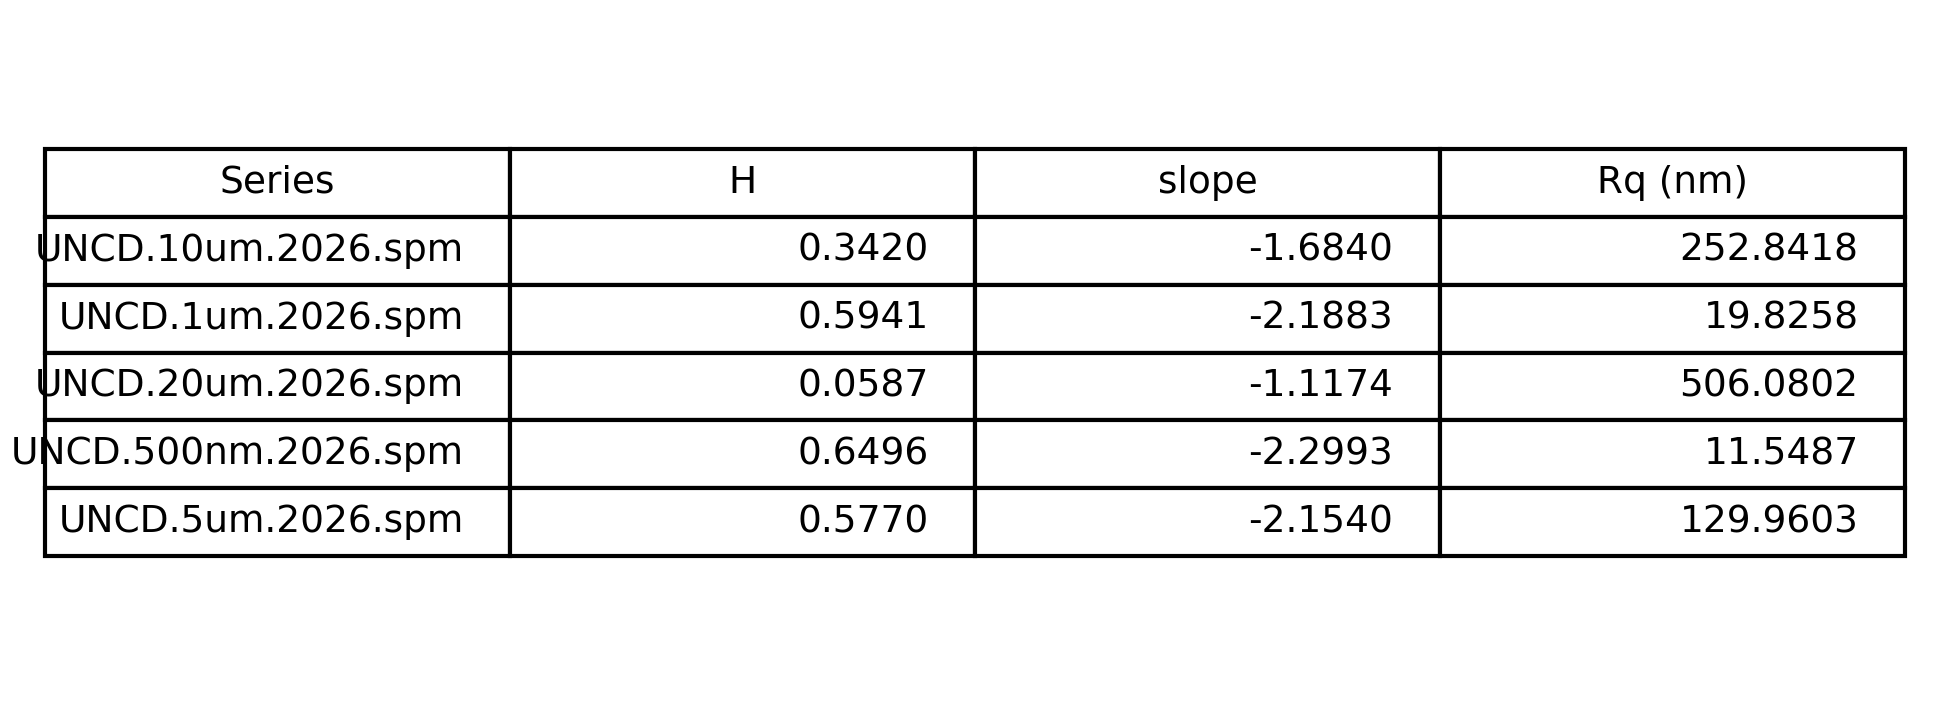
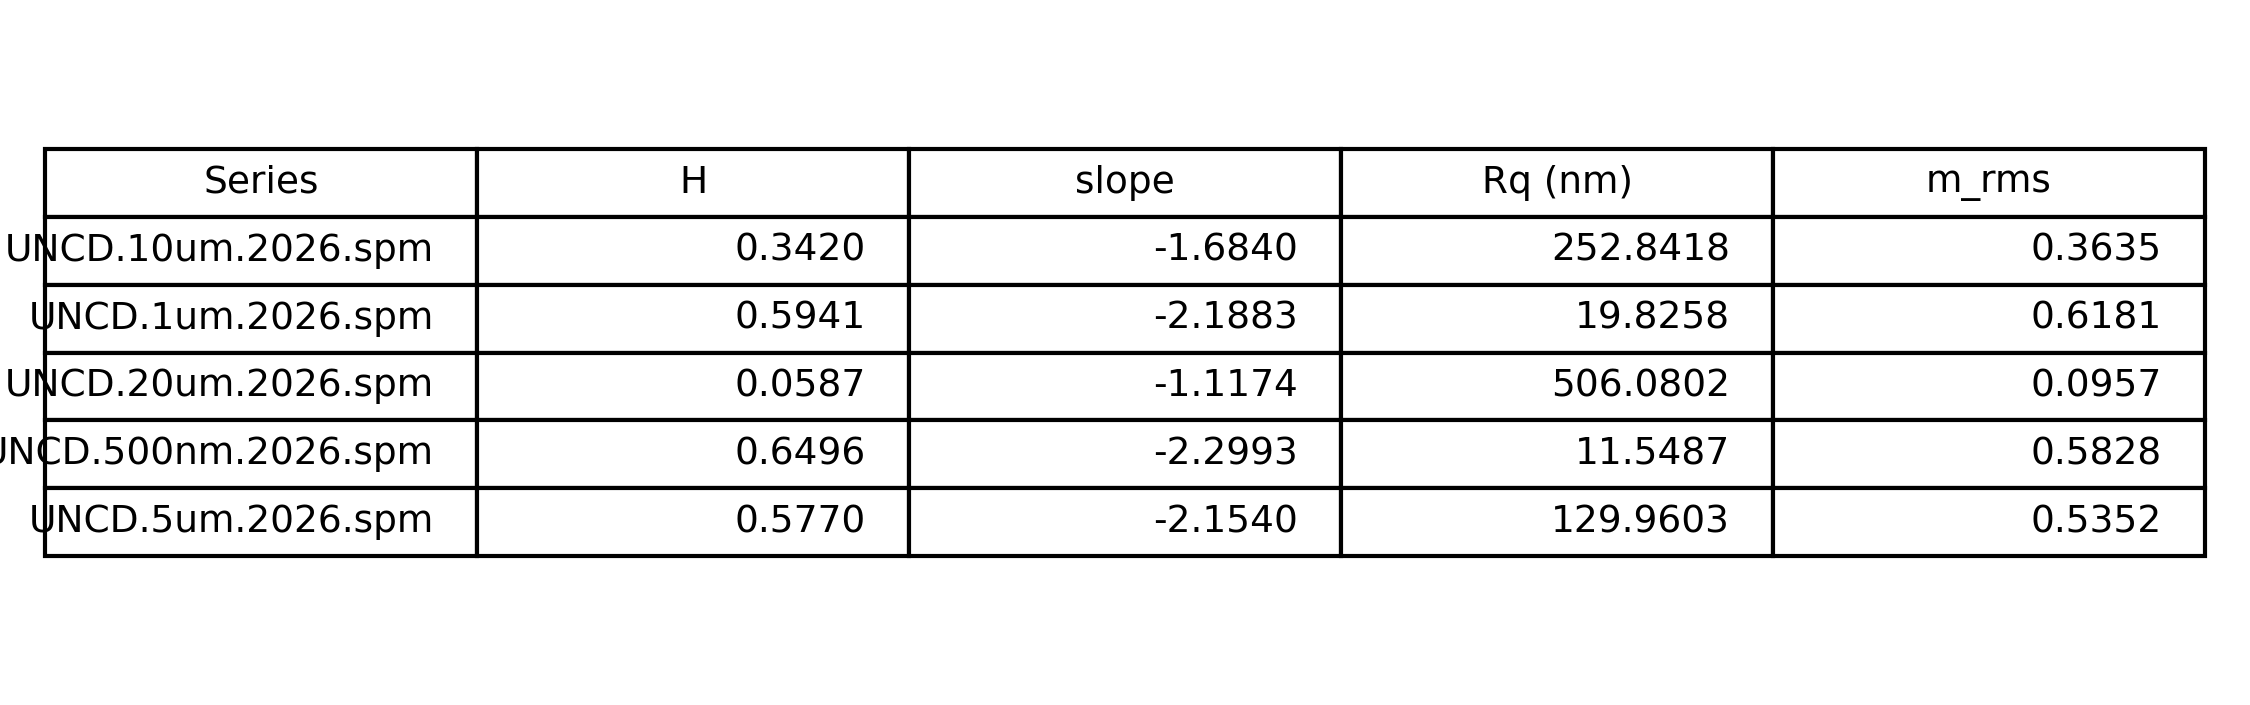
Add RMS slope and stats export for PSD analysis.

diff --git a/hurst_psd_analysis.py b/hurst_psd_analysis.py
@@ -133,6 +133,44 @@ def compute_rq_from_psd(
     return float(math.sqrt(rq_sq))
 
 
+def compute_rms_slope_from_psd(
+    q: np.ndarray,
+    psd: np.ndarray,
+    q_max: float = RQ_INTEGRATION_Q_MAX,
+) -> float:
+    """
+    Compute RMS slope m_rms from a 1D PSD using
+
+        m_rms^2 = (1 / pi) * ∫ q^2 C(q) dq   over  0 <= q <= q_max
+
+    and return m_rms = sqrt(m_rms^2).
+
+    Parameters
+    ----------
+    q : array-like
+        Wavevector values in nm^-1.
+    psd : array-like
+        PSD values in nm^3.
+    q_max : float
+        Upper integration limit in nm^-1.
+    """
+    q = np.asarray(q, dtype=float)
+    psd = np.asarray(psd, dtype=float)
+
+    mask = np.isfinite(q) & np.isfinite(psd) & (psd >= 0.0) & (q <= q_max)
+    q_sel = q[mask]
+    psd_sel = psd[mask]
+
+    if q_sel.size < 2:
+        return float("nan")
+
+    integrand = (q_sel ** 2) * psd_sel
+    integral = np.trapz(integrand, q_sel)
+
+    m_sq = abs((1.0 / math.pi) * integral)
+    return float(math.sqrt(m_sq))
+
+
 # ==== PLOTTING =============================================================
 
 def plot_psd_with_fit(
@@ -287,10 +325,11 @@ def plot_psd_with_fit_multi(
     ax.set_title(csv_path.name)
     ax.legend(loc="upper right", fontsize=8)
 
-    # Build table of H, slopes, and Rq (for separate table figure)
+    # Build table of H, slopes, Rq, and m_rms (for separate table figure)
     table_rows = []
     H_values = []
     Rq_values = []
+    m_values = []
     for g in groups:
         table_rows.append(
             [
@@ -298,26 +337,23 @@ def plot_psd_with_fit_multi(
                 f"{g['H']:.4f}",
                 f"{g['slope']:.4f}",
                 f"{g['Rq']:.4f}",
+                f"{g['m_rms']:.4f}",
             ]
         )
         H_values.append(float(g["H"]))
         Rq_values.append(float(g["Rq"]))
+        m_values.append(float(g["m_rms"]))
 
-    if H_values:
-        H_mean = float(np.mean(H_values))
-    else:
-        H_mean = float("nan")
+    H_mean = float(np.mean(H_values)) if H_values else float("nan")
+    Rq_mean = float(np.mean(Rq_values)) if Rq_values else float("nan")
+    m_mean = float(np.mean(m_values)) if m_values else float("nan")
 
-    if Rq_values:
-        Rq_mean = float(np.mean(Rq_values))
-    else:
-        Rq_mean = float("nan")
-
-    # Note mean(H) and mean(Rq) on the main plot
+    # Note mean(H), mean(Rq), and mean(m_rms) on the main plot
     ax.text(
         0.03,
         0.97,
-        f"mean(H) = {H_mean:.4f}\nmean(Rq) = {Rq_mean:.4f} nm",
+        "mean(H) = "
+        f"{H_mean:.4f}\nmean(Rq) = {Rq_mean:.4f} nm\nmean(m_rms) = {m_mean:.4f}",
         transform=ax.transAxes,
         fontsize=9,
         verticalalignment="top",
@@ -332,14 +368,12 @@ def plot_psd_with_fit_multi(
     plt.close(fig)
 
     # Create a separate figure for the table
-    fig_table, ax_table = plt.subplots(
-        figsize=(6.5, 0.6 + 0.35 * len(table_rows))
-    )
+    fig_table, ax_table = plt.subplots(figsize=(7.5, 0.6 + 0.35 * len(table_rows)))
     ax_table.axis("off")
 
     the_table = ax_table.table(
         cellText=table_rows,
-        colLabels=["Series", "H", "slope", "Rq (nm)"],
+        colLabels=["Series", "H", "slope", "Rq (nm)", "m_rms"],
         loc="center",
     )
     the_table.auto_set_font_size(False)
@@ -402,6 +436,7 @@ def analyse_csv_file(
             slope, intercept = fit_loglog_1d_psd(q, psd, fit_range=fit_range)
             H = slope_to_hurst_1d(slope)
             Rq = compute_rq_from_psd(q, psd)
+            m_rms = compute_rms_slope_from_psd(q, psd)
 
             groups_info.append(
                 {
@@ -412,6 +447,7 @@ def analyse_csv_file(
                     "intercept": intercept,
                     "H": H,
                     "Rq": Rq,
+                    "m_rms": m_rms,
                 }
             )
 
@@ -432,13 +468,14 @@ def analyse_csv_file(
             print(
                 f"  {csv_path} | {g['name']}: "
                 f"slope = {g['slope']:.4f}, H = {g['H']:.4f}, "
-                f"Rq = {g['Rq']:.4f} nm"
+                f"Rq = {g['Rq']:.4f} nm, m_rms = {g['m_rms']:.4f}"
             )
 
         slopes = np.array([g["slope"] for g in groups_info], dtype=float)
         intercepts = np.array([g["intercept"] for g in groups_info], dtype=float)
         H_values = np.array([g["H"] for g in groups_info], dtype=float)
         Rq_values = np.array([g["Rq"] for g in groups_info], dtype=float)
+        m_values = np.array([g["m_rms"] for g in groups_info], dtype=float)
 
         slope_mean = float(slopes.mean())
         intercept_mean = float(intercepts.mean())
@@ -446,12 +483,43 @@ def analyse_csv_file(
         H_std = float(H_values.std(ddof=1)) if H_values.size > 1 else 0.0
         Rq_mean = float(Rq_values.mean())
         Rq_std = float(Rq_values.std(ddof=1)) if Rq_values.size > 1 else 0.0
+        m_mean = float(m_values.mean())
+        m_std = float(m_values.std(ddof=1)) if m_values.size > 1 else 0.0
 
         print(
             f"\n{csv_path} summary over {len(groups_info)} series: "
             f"mean(H) = {H_mean:.4f}, std(H) = {H_std:.4f}; "
-            f"mean(Rq) = {Rq_mean:.4f} nm, std(Rq) = {Rq_std:.4f} nm"
+            f"mean(Rq) = {Rq_mean:.4f} nm, std(Rq) = {Rq_std:.4f} nm; "
+            f"mean(m_rms) = {m_mean:.4f}, std(m_rms) = {m_std:.4f}"
         )
+
+        # Save per-series statistics to CSV
+        stats_rows = []
+        for g in groups_info:
+            stats_rows.append(
+                {
+                    "Series": g["name"],
+                    "slope": g["slope"],
+                    "H": g["H"],
+                    "Rq_nm": g["Rq"],
+                    "m_rms": g["m_rms"],
+                }
+            )
+        stats_rows.append(
+            {
+                "Series": "mean",
+                "slope": slope_mean,
+                "H": H_mean,
+                "Rq_nm": Rq_mean,
+                "m_rms": m_mean,
+            }
+        )
+
+        stats_df = pd.DataFrame(stats_rows)
+        stats_path = output_dir / f"{csv_path.stem}_hurst_stats.csv"
+        stats_df.to_csv(stats_path, index=False)
+
+        print(f"Per-series statistics saved to: {stats_path}")
         print(f"Combined plot with table saved to: {img_path}")
 
         return slope_mean, intercept_mean, H_mean

diff --git a/psd_rms_slope.py b/psd_rms_slope.py
@@ -1,0 +1,72 @@
+from pathlib import Path
+
+import numpy as np
+import pandas as pd
+
+from hurst_psd_analysis import (
+    CSV_FILES,
+    X_COLUMN,
+    PSD_COLUMN,
+    GROUP_COLUMN,
+    Q_SCALE,
+    PSD_SCALE,
+    RQ_INTEGRATION_Q_MAX,
+    compute_rms_slope_from_psd,
+)
+
+
+def main() -> None:
+    if not CSV_FILES:
+        print("No CSV files specified in CSV_FILES in hurst_psd_analysis.py.")
+        return
+
+    for file_str in CSV_FILES:
+        csv_path = Path(file_str)
+        if not csv_path.is_file():
+            print(f"WARNING: {csv_path} does not exist, skipping.")
+            continue
+
+        df = pd.read_csv(csv_path, sep=";")
+
+        if X_COLUMN not in df.columns or PSD_COLUMN not in df.columns:
+            print(
+                f"{csv_path}: expected columns '{X_COLUMN}' and '{PSD_COLUMN}', "
+                f"but found {list(df.columns)}"
+            )
+            continue
+
+        if GROUP_COLUMN is None or GROUP_COLUMN not in df.columns:
+            print(
+                f"{csv_path}: GROUP_COLUMN '{GROUP_COLUMN}' is not present; "
+                "treating whole file as one series."
+            )
+            groups = [("all", df)]
+        else:
+            groups = df.groupby(GROUP_COLUMN)
+
+        print(f"\nRMS slope from PSD for {csv_path}:")
+        print(f"(Integration up to q = {RQ_INTEGRATION_Q_MAX} nm^-1)")
+        print(f"{'Series':30s}  {'m_rms (dimensionless)':>24s}")
+        print("-" * 58)
+
+        m_vals = []
+        for series_name, subdf in groups:
+            q = subdf[X_COLUMN].to_numpy() * Q_SCALE
+            psd = subdf[PSD_COLUMN].to_numpy() * PSD_SCALE
+            m_rms = compute_rms_slope_from_psd(q, psd)
+            m_vals.append(m_rms)
+            print(f"{str(series_name):30s}  {m_rms:24.4f}")
+
+        if m_vals:
+            m_arr = np.asarray(m_vals, dtype=float)
+            m_mean = float(m_arr.mean())
+            m_std = float(m_arr.std(ddof=1)) if m_arr.size > 1 else 0.0
+            print("-" * 58)
+            print(
+                f"{'mean':30s}  {m_mean:24.4f}  (std = {m_std:.4f})"
+            )
+
+
+if __name__ == "__main__":
+    main()
+
